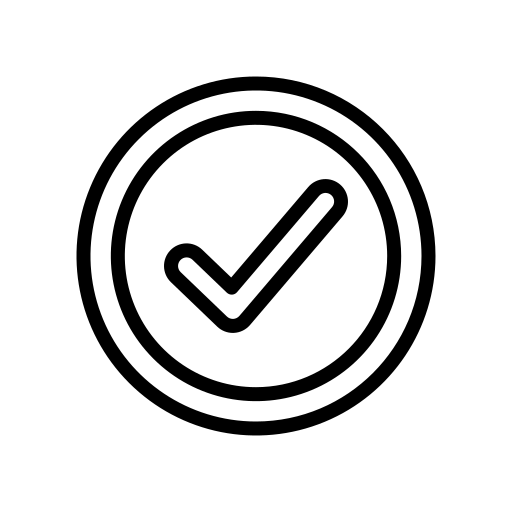
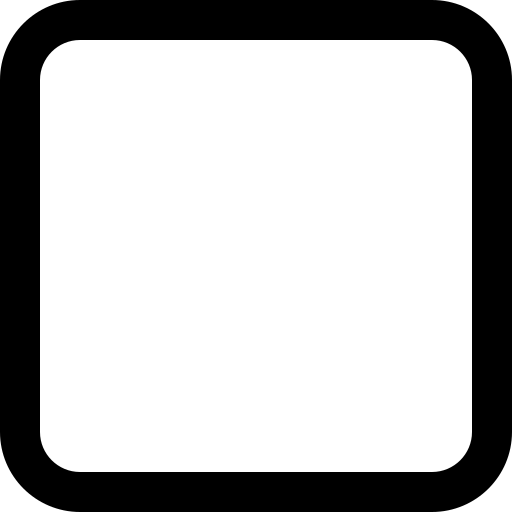
Change checkBoxIcon,trashIcon

diff --git a/src/containers/FavoriteFestivals/_fragments/List.js b/src/containers/FavoriteFestivals/_fragments/List.js
@@ -35,7 +35,6 @@ const List = ({ festivals, setFestivals }) => {
     setRemove([]);
   };
 
-  console.log(remove);
   return useObserver(() => (
     <FavoriteContainer>
       <HeadContainer>
@@ -153,15 +152,16 @@ const IconWrap = styled.div`
 `;
 
 const Trash = styled(BsTrash)`
-  font-size: 32px;
+  margin-left: 10px;
+  font-size: 25px;
   cursor: pointer;
 `;
 
 const CheckCustom = styled.div`
   background-image: url(${(props) => props.image});
   background-size: contain;
-  width: 40px;
-  height: 40px;
+  width: 20px;
+  height: 20px;
   cursor: pointer;
 `;
 
